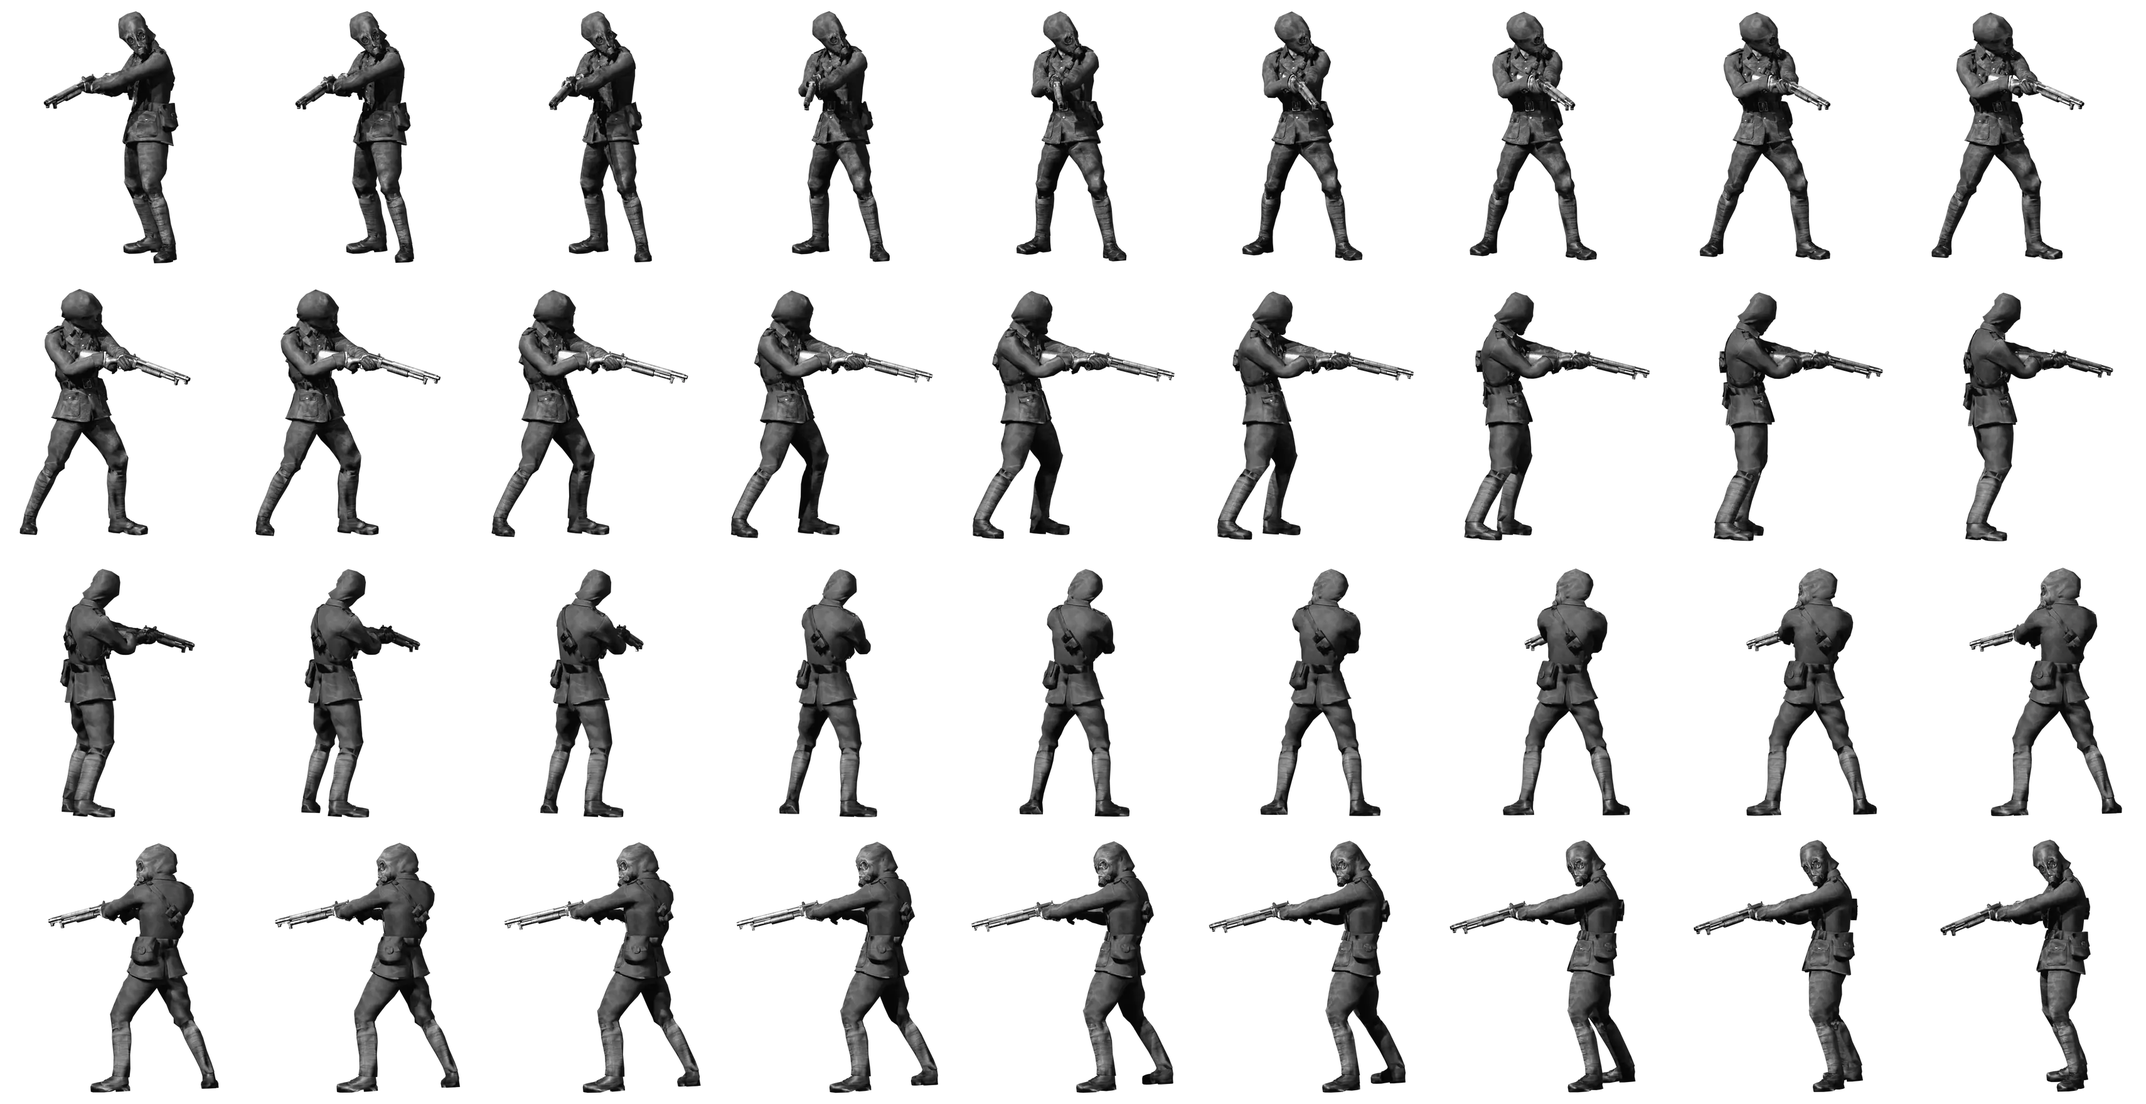
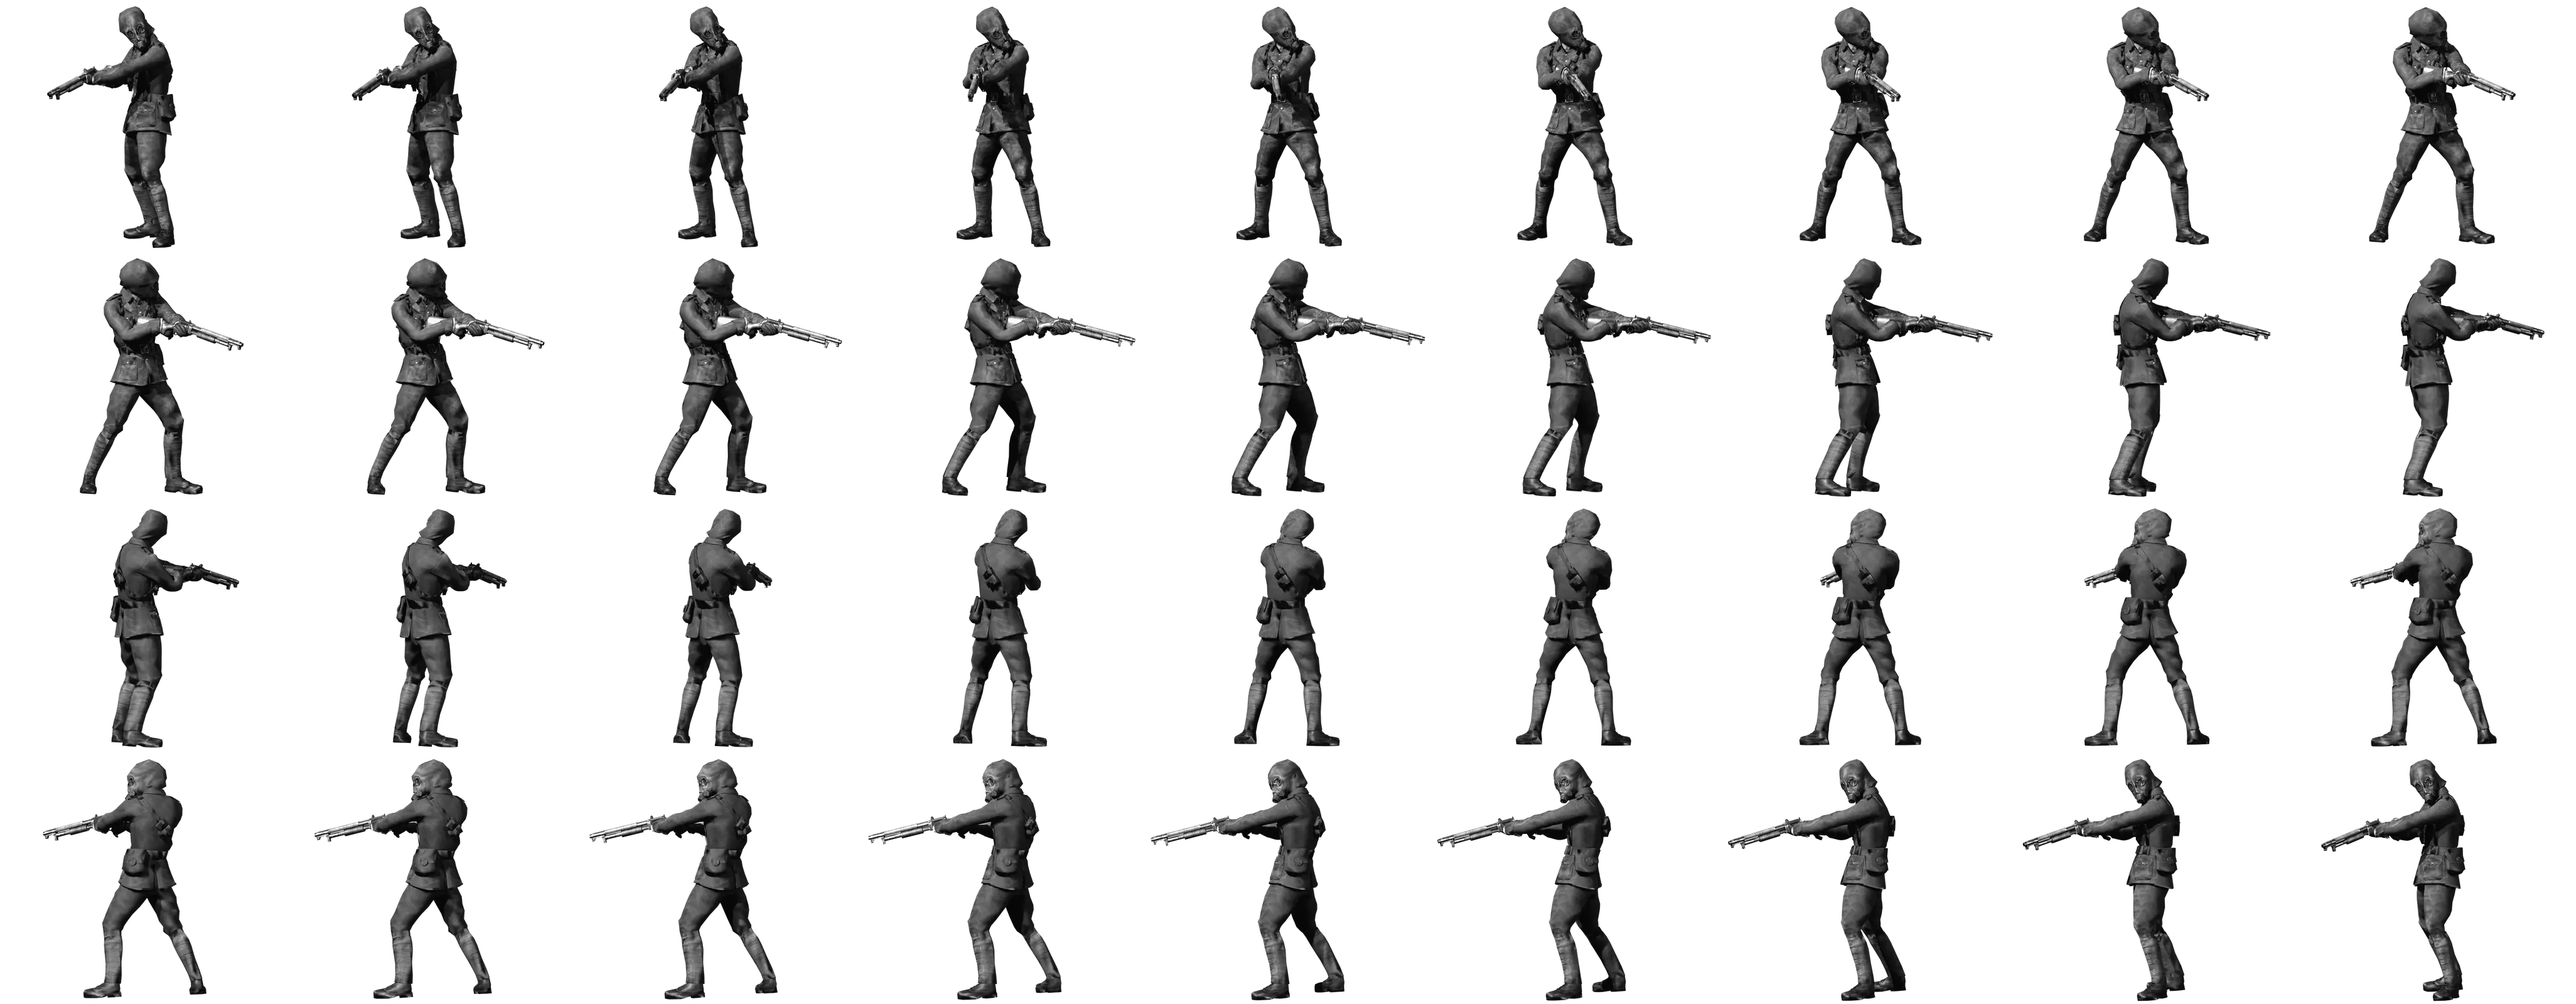
3D: modelos maiores e soldado girando em volta do próprio eixo
O giro agora tem o pivô na bacia do soldado (antes era o centro da caixa, entre
o corpo e a boca do cano). Cabeça do tático e soldado ocupam bem mais da tela.

Changed region(s): [[0.0, 0.0, 0.9918, 1.0]]

diff --git a/css/style.css b/css/style.css
@@ -676,9 +676,9 @@ html.is-lb{ overflow:hidden }
 /* ============================================================
    03 · MODELAGEM 3D — cabeça | texto | soldado
    ============================================================ */
-.m3d{ height:auto; min-height:0; padding-block:clamp(2.5rem,8vh,5.5rem) }
+.m3d{ height:auto; min-height:100vh; padding-block:clamp(2rem,5vh,4rem); overflow-x:clip }
 .m3d__wrap{
-  width:min(100%,86rem); display:grid; grid-template-columns:minmax(0,.95fr) minmax(0,1fr) minmax(0,1.15fr);
+  width:min(100%,96rem); display:grid; grid-template-columns:minmax(0,1.1fr) minmax(0,.85fr) minmax(0,1.35fr);
   gap:clamp(1.2rem,3vw,3.5rem); align-items:center;
 }
 .m3d__t{ margin:0; font-weight:400; font-style:italic; font-size:clamp(1.8rem,3.2vw,3rem); line-height:1; letter-spacing:-.02em }
@@ -703,9 +703,10 @@ html.is-lb{ overflow:hidden }
   padding-top:.5rem; font-family:var(--mono); font-size:.92rem; letter-spacing:.1em; text-transform:uppercase;
   color:var(--mute); white-space:nowrap; line-height:1.1; text-align:center;
 }
-.m3d__head{ justify-self:start; width:min(100%,26rem) }
-.m3d__hero{ justify-self:end; width:min(100%,62vh,33rem) }
-.m3d__hero canvas{ aspect-ratio:380/440; cursor:grab; touch-action:pan-y; outline:none }
+.m3d__head{ justify-self:start; width:min(112%,66vh,36rem) }
+.m3d__hero{ justify-self:center; height:min(80vh,52rem); aspect-ratio:456/400; margin-inline:-40%; left:-2.5rem }
+.m3d__h{ position:relative; z-index:2 }
+.m3d__hero canvas{ height:100%; cursor:grab; touch-action:pan-y; outline:none }
 .m3d__hero canvas.is-held{ cursor:grabbing }
 .m3d__hero canvas:focus-visible{ outline:1px dashed color-mix(in srgb, var(--fg) 55%, transparent); outline-offset:4px }
 .m3d__hero figcaption{ display:flex; justify-content:center; gap:.7rem; color:var(--fg) }
@@ -714,7 +715,9 @@ html.is-lb{ overflow:hidden }
 @media (max-width:900px){
   .m3d__wrap{ grid-template-columns:minmax(0,.8fr) minmax(0,1fr); gap:1.4rem 1rem }
   .m3d__h{ grid-column:1 / -1; grid-row:1 }
-  .m3d__head{ align-self:center }
+  .m3d{ min-height:0 }
+  .m3d__head{ grid-column:1 / -1; justify-self:center; width:min(78%,22rem) }
+  .m3d__hero{ grid-column:1 / -1; height:auto; width:118%; margin-inline:-9%; left:0 }
   .m3d__wrap figcaption{ font-size:.8rem }
   .m3d__hero figcaption{ flex-direction:column; gap:.2rem; align-items:center }
 }

diff --git a/index.html b/index.html
@@ -9,7 +9,7 @@
 <link rel="preconnect" href="https://fonts.googleapis.com" />
 <link rel="preconnect" href="https://fonts.gstatic.com" crossorigin />
 <link href="https://fonts.googleapis.com/css2?family=VT323&display=swap" rel="stylesheet" />
-<link rel="stylesheet" href="css/style.css?v=2611140840" />
+<link rel="stylesheet" href="css/style.css?v=2611140915" />
 </head>
 <body class="is-booting">
 
@@ -200,15 +200,15 @@
     "three/addons/": "https://cdn.jsdelivr.net/npm/three@0.160.1/examples/jsm/"
 } }
 </script>
-<script src="js/data.js?v=2611140840"></script>
-<script src="js/i18n.js?v=2611140840"></script>
-<script src="js/icons.js?v=2611140840"></script>
-<script src="js/art.js?v=2611140840"></script>
-<script src="js/main.js?v=2611140840"></script>
-<script src="js/cue.js?v=2611140840"></script>
-<script src="js/gallery.js?v=2611140840"></script>
-<script src="js/m3d.js?v=2611140840"></script>
-<script src="js/track.js?v=2611140840"></script>
-<script type="module" src="js/psp.js?v=2611140840"></script>
+<script src="js/data.js?v=2611140915"></script>
+<script src="js/i18n.js?v=2611140915"></script>
+<script src="js/icons.js?v=2611140915"></script>
+<script src="js/art.js?v=2611140915"></script>
+<script src="js/main.js?v=2611140915"></script>
+<script src="js/cue.js?v=2611140915"></script>
+<script src="js/gallery.js?v=2611140915"></script>
+<script src="js/m3d.js?v=2611140915"></script>
+<script src="js/track.js?v=2611140915"></script>
+<script type="module" src="js/psp.js?v=2611140915"></script>
 </body>
 </html>

diff --git a/js/m3d.js b/js/m3d.js
@@ -117,7 +117,7 @@
   function drawPiece(p) { if (p.img) draw(p.cv, p.img, 0, 0, p.img.naturalWidth, p.img.naturalHeight, 0, CELL); }
 
   /* ---- o soldado girando ---- */
-  var FW = 380, FH = 440, COLS = 9, N = 36;
+  var FW = 456, FH = 400, COLS = 9, N = 36;
   var hero = $('m3dHero'), sheet = null, frame = 0, visible = false, last = 0, held = false;
   var STEP = 110, HOLD = 4200;                     // ms por quadro; no quadro 0 (de frente) ele para um pouco
   function drawHero() {

diff --git a/tools/m3d/scene_render.py b/tools/m3d/scene_render.py
@@ -21,9 +21,20 @@ for o in meshes:
         mn = Vector(map(min, mn, w)); mx = Vector(map(max, mx, w))
     ev.to_mesh_clear()
 ctr = (mn + mx) / 2; h = mx.z - mn.z
-if 'center' in CFG: ctr.x, ctr.y = CFG['center']
-rad = CFG.get('rad') or max(math.hypot(mx.x - ctr.x, mx.y - ctr.y), math.hypot(mn.x - ctr.x, mn.y - ctr.y),
-                           math.hypot(mx.x - ctr.x, mn.y - ctr.y), math.hypot(mn.x - ctr.x, mx.y - ctr.y))
+if CFG.get('center') == 'pelvis':                      # gira em volta do eixo do corpo, não do centro da caixa
+    arm = bpy.data.objects['SENT_ARM']
+    pv = (arm.matrix_world @ arm.pose.bones['pelvis'].matrix).translation
+    ctr.x, ctr.y = pv.x, pv.y
+    rad = 0
+    for o in meshes:
+        ev = o.evaluated_get(dg); me = ev.to_mesh()
+        for v in me.vertices:
+            w = ev.matrix_world @ v.co
+            rad = max(rad, math.hypot(w.x - ctr.x, w.y - ctr.y))
+        ev.to_mesh_clear()
+else:
+    rad = max(math.hypot(mx.x - ctr.x, mx.y - ctr.y), math.hypot(mn.x - ctr.x, mn.y - ctr.y),
+              math.hypot(mx.x - ctr.x, mn.y - ctr.y), math.hypot(mn.x - ctr.x, mx.y - ctr.y))
 
 piv = bpy.data.objects.new('piv', None); sc.collection.objects.link(piv)
 piv.location = (ctr.x, ctr.y, 0); vl.update()
